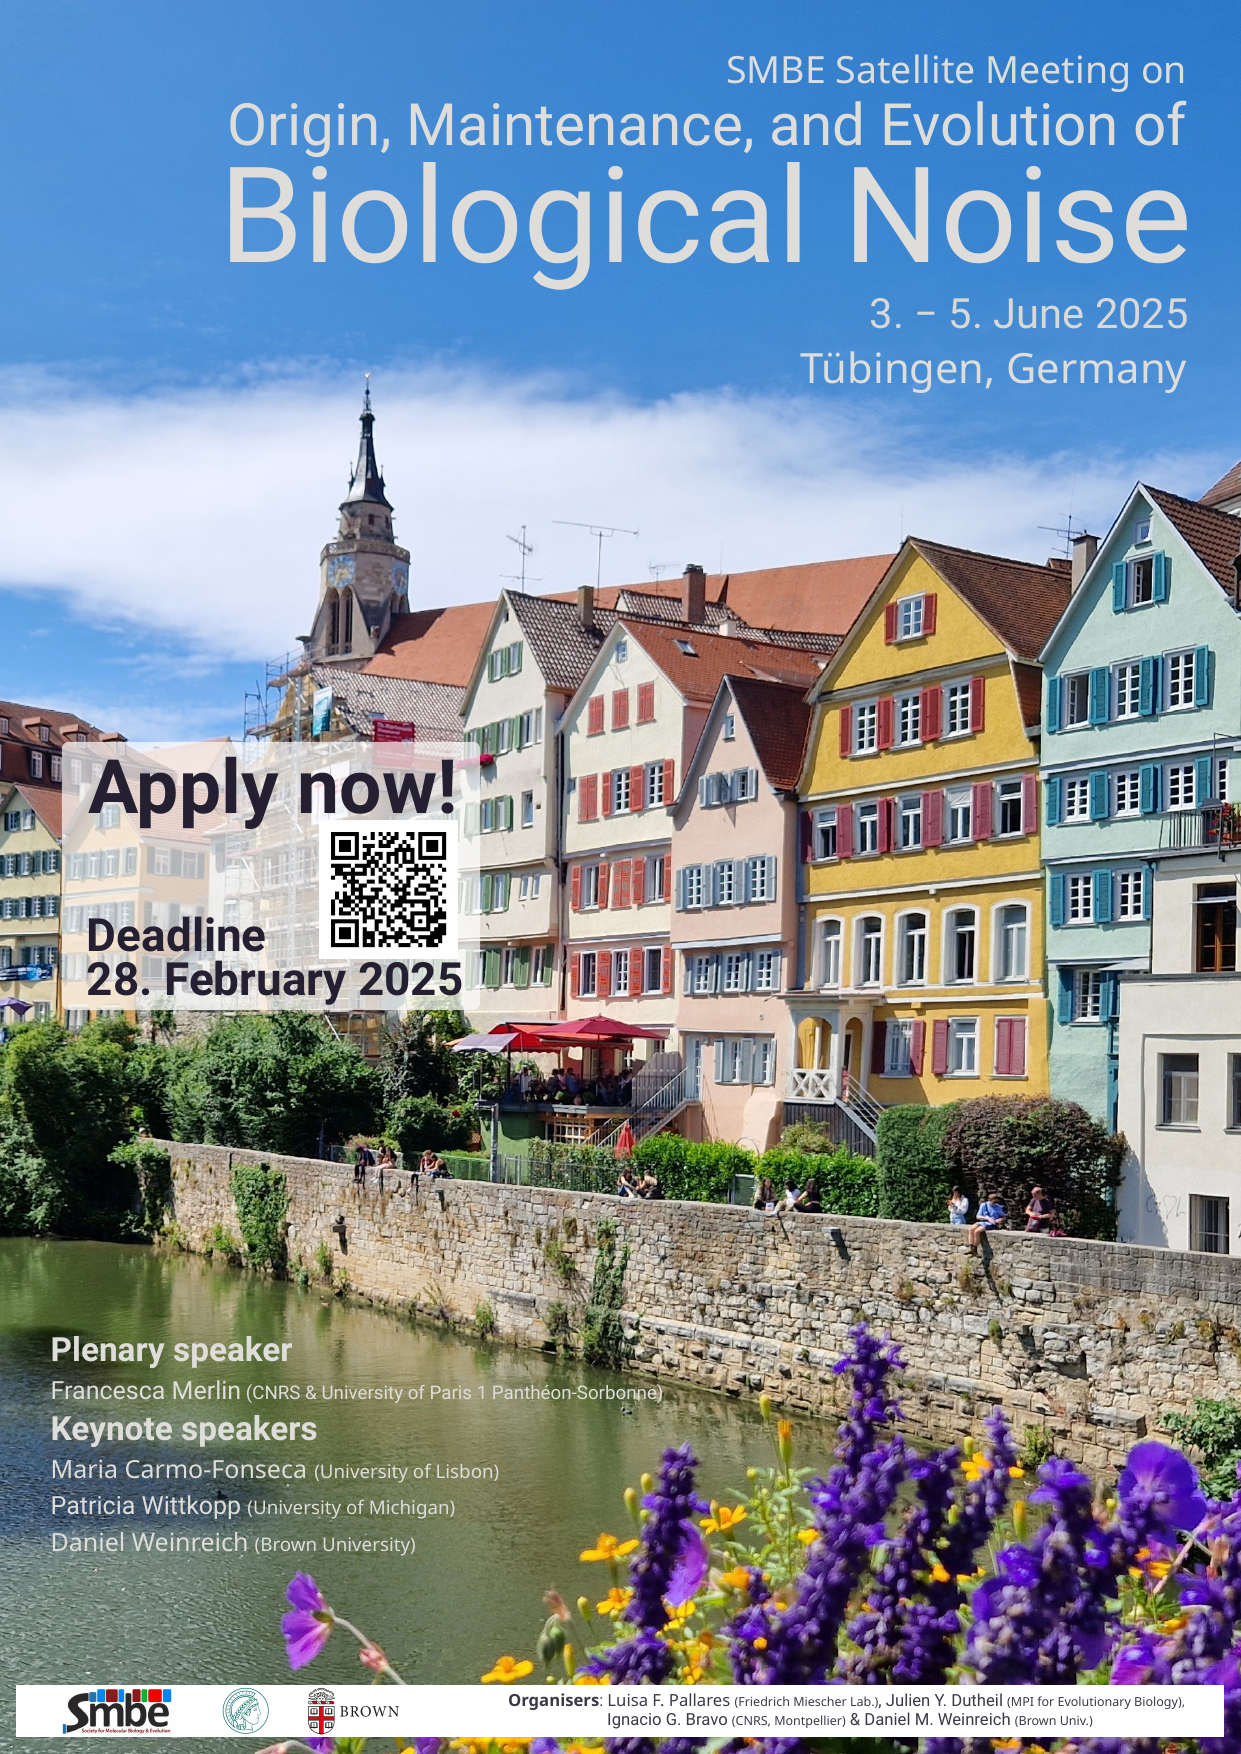
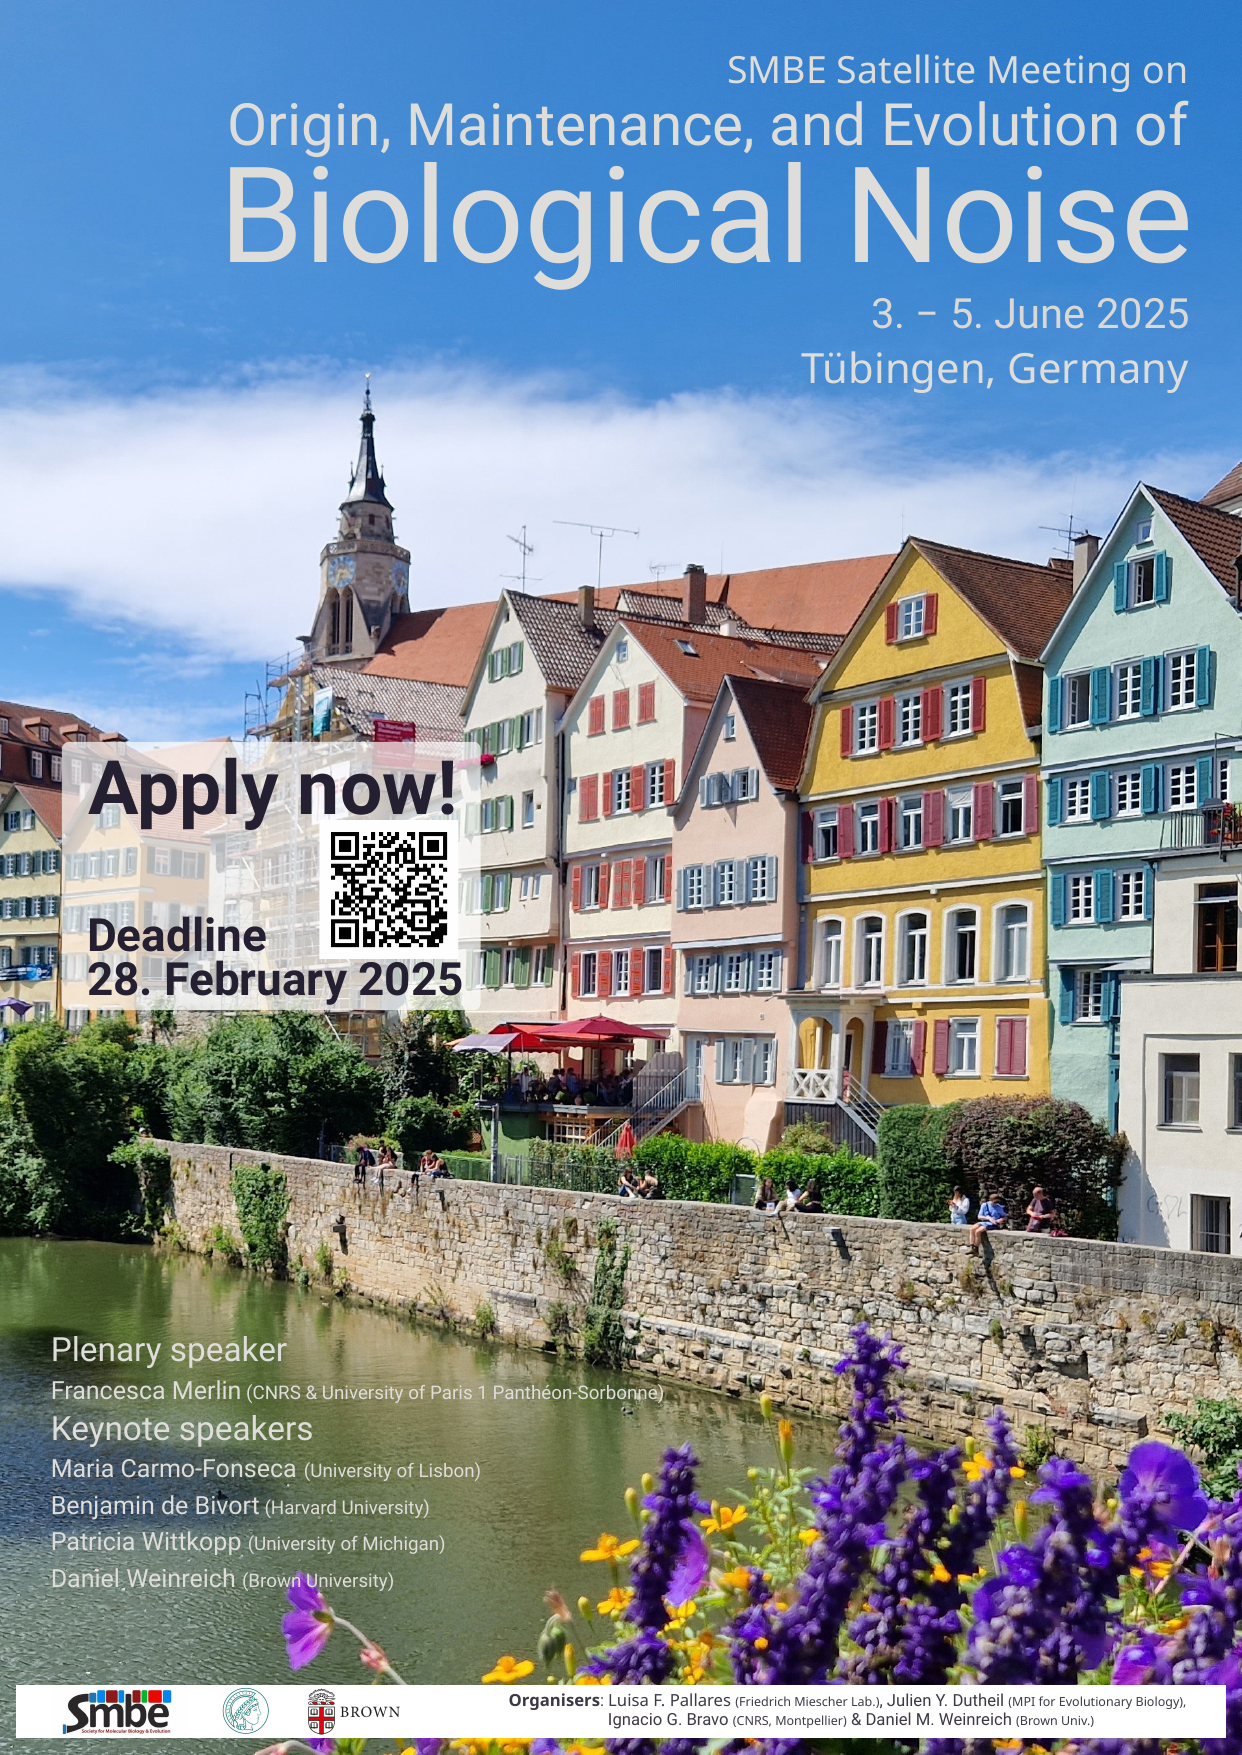
added Benjamin de Bivort

diff --git a/index.html b/index.html
@@ -130,6 +130,18 @@
         -->
         <div class="speaker-list">
                 <div class="speaker">
+                        <a href="https://www.debivortlab.org/" target="blank">
+                                <img src="pictures/speakers/Benjamin_de_Bivort.jpg" alt="Benjamin de Bivort" class="speaker-photo">
+                        </a>
+                        <div class="speaker-details">
+                                <h3><a href="https://www.debivortlab.org/" target="blank">Benjamin de Bivort</a></h3>
+                                <p>Harvard University</p>
+                                <p><b>Session 2: The genetic basis of phenotypic noise </b></p>
+                        </div>
+                </div>
+        </div>
+        <div class="speaker-list">
+                <div class="speaker">
                         <a href="https://sites.lsa.umich.edu/wittkopp-lab/" target="blank">
                                 <img src="pictures/speakers/Patricia_Wittkopp.png" alt="Patricia Wittkopp" class="speaker-photo">
                         </a>

diff --git a/program.html b/program.html
@@ -232,10 +232,7 @@
                         </tr>
                         <tr>
                                 <td class="speaker">
-                                        <!--
-                                        Andreas Wagner
-                                        -->
-                                        TBA
+                                        Benjamin de Bivort
                                 </td>
                         </tr>
                         <tr>
